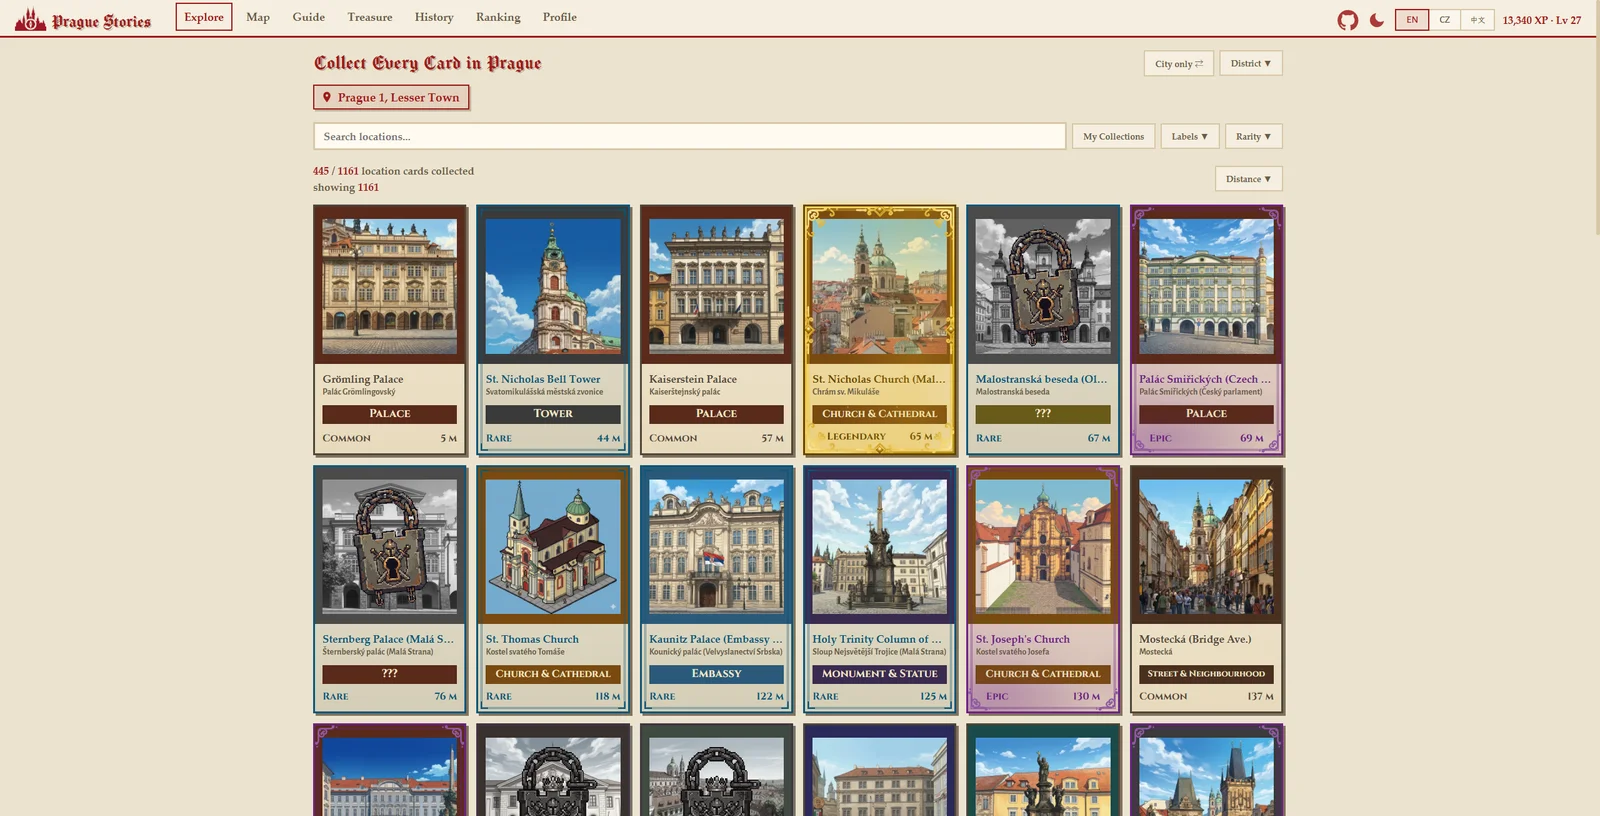
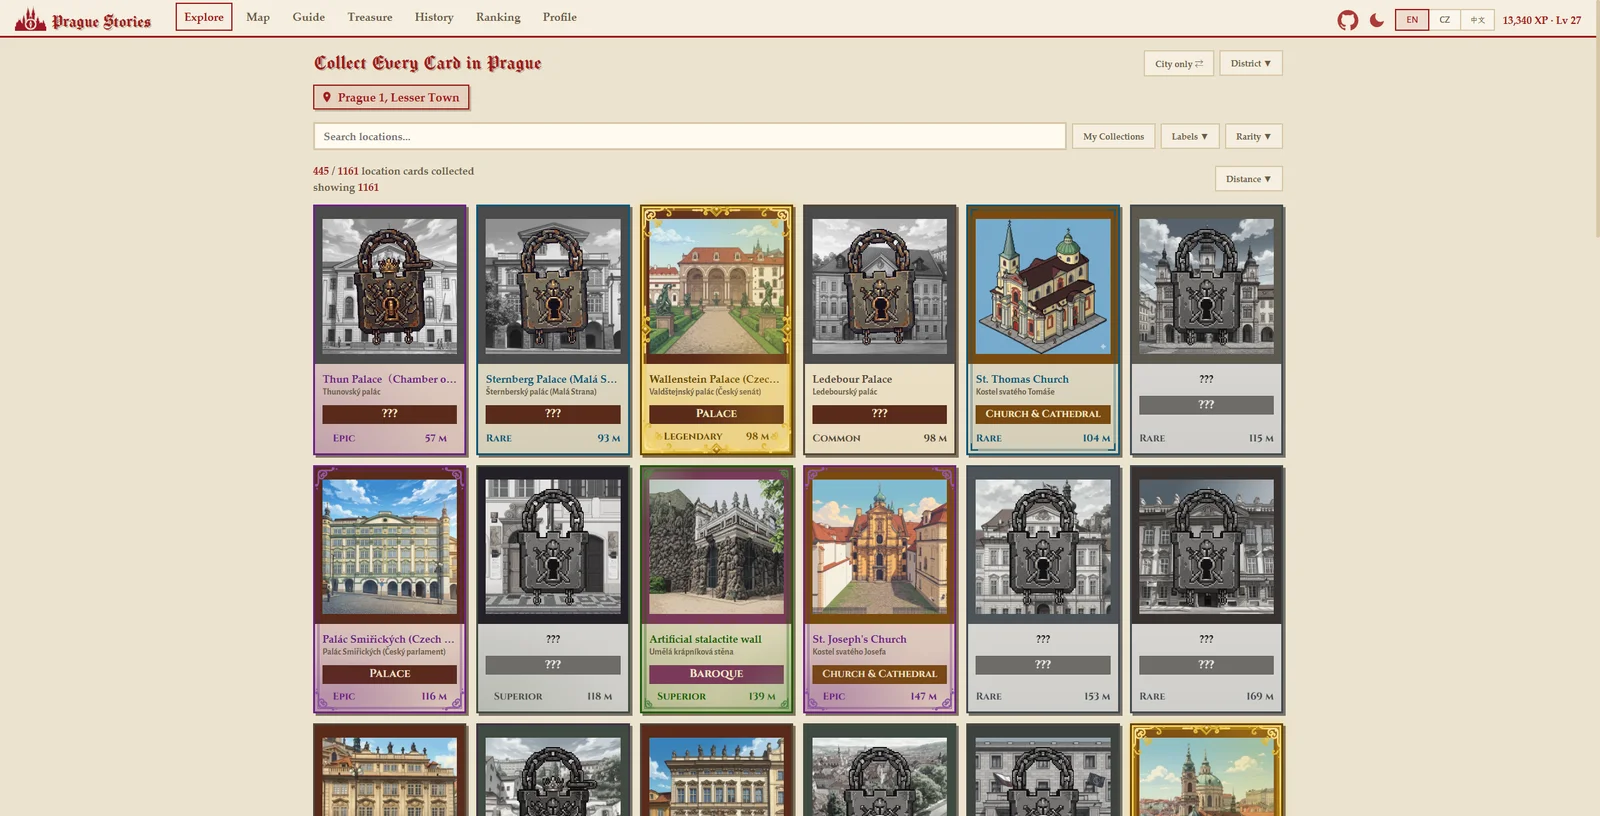
docs: README screenshots: Explore near Wallenstein Palace, map with user dot, phone consent dialog

diff --git a/README.md b/README.md
@@ -8,19 +8,20 @@ Walk to a real place, stand there, and collect its card. More than 1,100 locatio
 
 **User guide:** [GUIDE.md](GUIDE.md)
 
-![Explore: rarity-framed cards around the Lesser Town, collected and locked](docs/screenshots/explore.webp)
+![Explore near the Wallenstein Palace: collected cards in their rarity frames, nearby locked ones starting to reveal themselves](docs/screenshots/explore.webp)
 
 | Location story | Map |
 |---|---|
-| ![Location detail of the Church of Our Lady before Týn](docs/screenshots/location-detail.webp) | ![Map with collected (gold) and locked (grey) places, the New Town Hall open in the sidebar](docs/screenshots/map.webp) |
+| ![Location detail of the Church of Our Lady before Týn](docs/screenshots/location-detail.webp) | ![Map centred on the user (red dot) next to the selected New Town Hall, open in the sidebar](docs/screenshots/map.webp) |
 
-**On your phone:** browse by district (here Prague 3, with its introduction), long-press a collected card to show it off, and go treasure hunting.
+**On your phone:** a first visit asks before using your location, then browse by district (here Prague 3, with its introduction), long-press a collected card to show it off, and go treasure hunting.
 
 <table>
   <tr>
-    <td align="center"><img src="docs/screenshots/phone-explore.webp" alt="Explore filtered to Prague 3, with the district's introduction" width="260"></td>
-    <td align="center"><img src="docs/screenshots/phone-showcase.webp" alt="Card showcase: the Church of the Holy Saviour, a Superior card" width="260"></td>
-    <td align="center"><img src="docs/screenshots/phone-treasure.webp" alt="Treasure hunt start page" width="260"></td>
+    <td align="center"><img src="docs/screenshots/phone-consent.webp" alt="First visit: the location-consent dialog with two equal choices" width="200"></td>
+    <td align="center"><img src="docs/screenshots/phone-explore.webp" alt="Explore filtered to Prague 3, with the district's introduction" width="200"></td>
+    <td align="center"><img src="docs/screenshots/phone-showcase.webp" alt="Card showcase: the Church of the Holy Saviour, a Superior card" width="200"></td>
+    <td align="center"><img src="docs/screenshots/phone-treasure.webp" alt="Treasure hunt start page" width="200"></td>
   </tr>
 </table>
 
